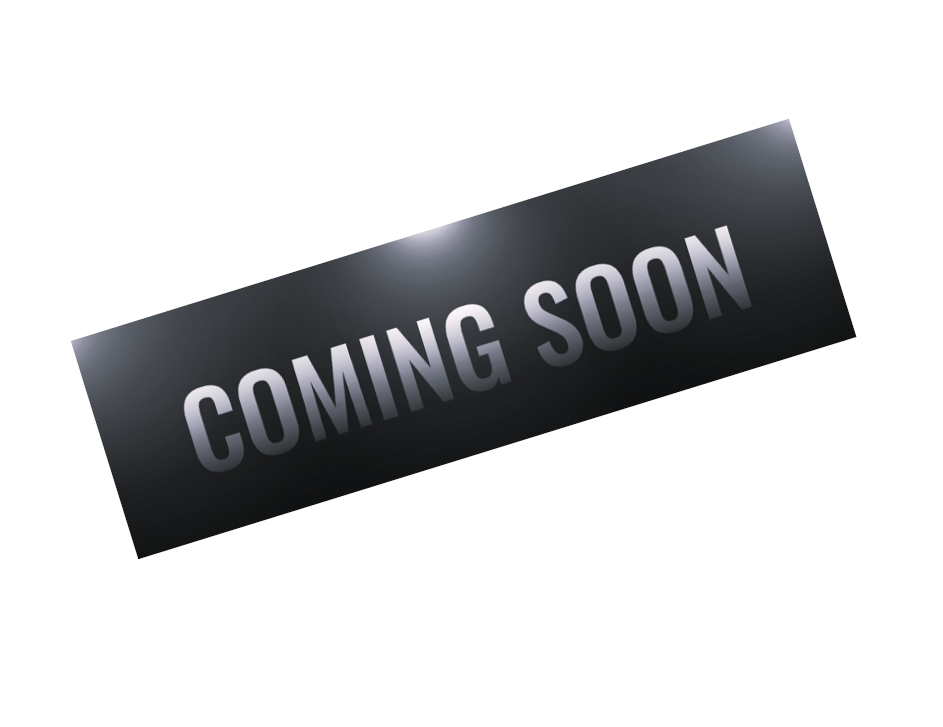
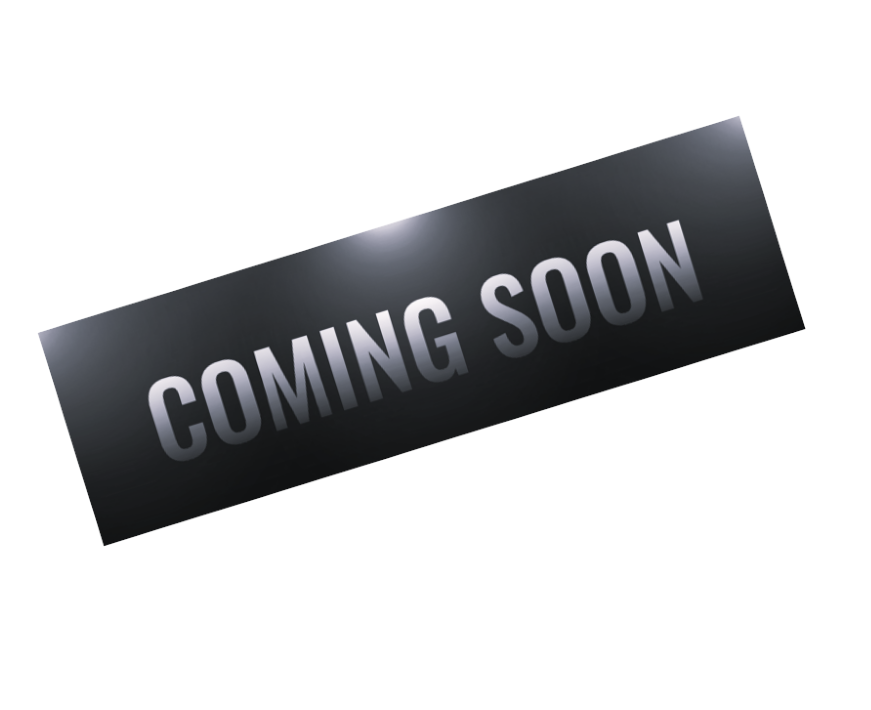
Changed the image size to be the same

diff --git a/work.html b/work.html
@@ -33,24 +33,23 @@
     <div class="content-container">
       <h1>Some projects I've been working on...</h1>    
      <div class="row">
-        <div class="col-6">
+      
+        <div class="col-6 sm-6">
             <img src="images/Generator.png" class="img-fluid" alt="Quote generator">
             <h4 class="text-center">Quote generator</h4>
-        </div>
-        
-
-
-        <div class="col-6">
+        </div>      
+        <div class="col-6 sm-6">
             <img src="images/windward.png" class="img-fluid" alt="Weather app">
             <h4 class="text-center">Weather app</h4>
         </div>
-        <div class="col-6">
+        <div class="col-6 sm-6">
             <img src="images/Worldclock.png" class="img-fluid" alt="World clock">
             <h4 class="text-center">World clock</h4>
         </div>
-        <div class="col-6">
+        <div class="col-6 sm-6">
             <img src="images/coming_soon.png" class="img-fluid" alt="Quote generator">
             <h4 class="text-center">Next project coming soon</h4>
+         
         </div>
 
 

diff --git a/styles/portfolio.css b/styles/portfolio.css
@@ -89,6 +89,7 @@ img{
   padding-left: 60px;
 }
 
+
 @media (max-width: 820px) {
   h1 {
     font-size: 70px;
